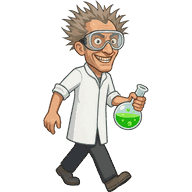
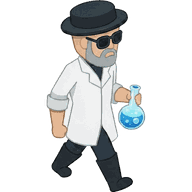
Monster größer, Trefferreaktion, Bilder vorladen, Betty-Zensur angepasst, Umbenennungen (21b)
Claude-Session: https://claude.ai/code/session_013oLTFfMg7wzJRzAbY7Svkz

Changed region(s): [[0.2188, 0.0, 0.7812, 1.0]]

diff --git a/index.html b/index.html
@@ -220,7 +220,7 @@ const FIREBASE_CONFIG = {
   appId: "1:45840879921:web:f4f4f8bb60e49a091ae010"
 };
 const GAME_ID = "spiel1";   // anderer Name = eigenes, getrenntes Spiel
-const VERSION = "2026-10-21a";  // bei JEDER Änderung hochzählen: alte Handys merken so, dass sie neu laden müssen
+const VERSION = "2026-10-21b";  // bei JEDER Änderung hochzählen: alte Handys merken so, dass sie neu laden müssen
 
 /* =====================================================================
    SPIELDATEN – Regeln und Zahlen. Alles hier darf geändert werden.
@@ -489,7 +489,7 @@ const MONSTERS = [
   /* Runde 21–40 (16.10., L): neue Mechaniken. „Immun“ (Faktor 0) = 50 % Schaden und kein Effekt des Elements. Werte sind Startwerte fürs Balancing-Skript.
      Block 5–8 wie bisher: erste Runde neutral, danach je Element einmal Bonus und Malus (Block 7: Lehrer gemischt, Block 8: Vorhaut nicht neutral). */
   ['Roboter',           {emo:'🤖', ar:[0.3, 0.5], speed:0.9, hpMul:1.1, weak:[1, 1, 1, 1]}],
-  ['Sommer-Schneebälle',{emo:'⛄', ar:[0.45, 0.7], speed:1.0, weak:[1.5, 0, 1, 1], info:'rollen mit dicker Schale – Eis kann ihnen kaum etwas anhaben'}],
+  ['Eiswürfel',         {emo:'⛄', ar:[0.45, 0.7], speed:1.0, weak:[1.5, 0, 1, 1], info:'rollen mit dicker Schale – Eis kann ihnen kaum etwas anhaben'}],
   ['Würfel',            {emo:'🎲', ar:[0.2, 0.3], speed:1.1, weak:[1, 1, 1.5, 0.75]}],
   ['Phönixe',           {emo:'🐦🔥', ar:[0.1, 0.2], fly:true, speed:1.4, weak:[0, 1.5, 1, 1], info:'aus Feuer geboren – Feuer wirkt kaum'}],
   ['Fairtrade-Bananen', {emo:'🍌', speed:1.2, hpMul:0.95, weak:[1, 1, 0.75, 1.5]}],
@@ -507,7 +507,7 @@ const MONSTERS = [
   ['Lehrer',            {emo:'🧑🏫', ar:[0.2, 0.3], speed:1.0, mixed:true, weak:[1, 1, 1, 1], info:'jeder Lehrer hat eigene Stärken und Schwächen: eine „Immunität“, ein Bonus, der Rest gemischt'}],
   ['Schulleiter',       {emo:'🎓', mini:true, ar:[0.2, 0.3], speed:1.0, hpMul:5, count:1, lives:2, weatherBoss:true, weak:[1, 1, 1, 1], info:'macht auf jeder Map das Wetter, das dem Element dort am meisten schadet (Stein ist wetterfest)'}],
   ['Streichquartett',   {emo:'🎻', ar:[0.15, 0.3], speed:1.0, hpMul:1.05, quartet:true, weak:[1, 1, 1, 1], info:'gemischte Welle (Farbe und Größe zeigen die Sorte): 7 Violinen (gelb, leicht), 6 Bratschen (orange, verwirrt, laufen immer wieder rückwärts), 4 Celli (braun, stärker), 3 Kontrabässe (dunkelrot, groß, etwas langsamer, geben Monstern in ihrer Nähe +20 Punkte Rüstung)'}],
-  ['Heisenbergs',       {emo:'🧪', ar:[0.3, 0.4], speed:1.15, night:true, weak:[0.75, 1, 1.5, 1]}],
+  ['The one who knocks', {emo:'🧪', ar:[0.3, 0.4], speed:1.15, night:true, weak:[0.75, 1, 1.5, 1]}],
   ['Mehlmottenraupen',  {emo:'🪱', ar:[0.9, 0.35], speed:1.0, cocoon:{ ground:3, fly:1.2, pct:0.9, speed:2.4 }, weak:[1.5, 0.75, 1, 1], info:'krabbeln erst kurz als Raupe, dann abwechselnd Kokon und Motte – als Kokon fast unverwundbar (90 % Rüstung, Stein zertrümmert sie), dann kurz als Motte fliegend und schnell'}],
   ['Nazgul',            {emo:'🐲', ar:[0.3, 0.4], fly:true, speed:1.5, hpMul:0.8, weak:[1, 1, 0.75, 1.5]}],
   ['GNTModels',         {emo:'💃', speed:1.3, heart:{ t:1, cd:1 }, weak:[1, 1.5, 1, 0.75], info:'nach jedem Treffer kurz ein Herz – dann zielt kein Turm auf sie'}],
@@ -786,6 +786,7 @@ function addFx(m, kind, val, t, w){        // stärkerer Wert gewinnt, längere 
 const on = (m, k) => m.fx[k] && m.fx[k].t > 0;
 function hit(s, m, def, dmg){
   if (m.dead) return;
+  m.hitT = s.t;   // nur Anzeige (Trefferreaktion), die Simulation liest das nicht
   const w = (m.weak || m.def.weak)[def.el], f = w || CONFIG.immune, imm = !w;   // „immun“ = weniger Schaden und (seit 16.10.) kein Effekt des Elements; Lehrer: Faktoren je Exemplar (m.weak)
   const vuln = 1 + (on(m, 'curse') ? m.fx.curse.v : 0) + (on(m, 'smolder') ? m.fx.smolder.v : 0);
   if (def.groundHalf && !flying(m)) dmg *= 0.5;               // Feuerregen: Bodenmonster halb
@@ -1795,20 +1796,29 @@ const MONSTER_IMG = { 'Silberfische':'silberfisch', 'Kellerasseln':'assel', 'Nac
   'Kleine Hunde':'hund', 'Ratten':'ratte', 'Katzen':'katze', 'Spatzen':'spatz', 'Füchse':'fuchs', 'Fuchs-Boss':'fuchs', 'Habichte':'habicht', 'Dachse':'dachs',
   'Oktopusse':'oktopus', 'Wildschweine':'wildschwein', 'Schäferhunde':'schaeferhund', 'Schäferhund-Boss':'schaeferhund', 'Besoffene Penner':'penner',
   'Wütende Partnerin':'partnerin', 'Wütende Nachbarn':'nachbar', 'Eifersüchtige Geliebte':'geliebte', 'Uffug-Vorhaut':'vorhaut', 'Uffug (Boss)':'uffug',
-  'Roboter':'roboter', 'Sommer-Schneebälle':'schneeball', 'Würfel':'wuerfel', 'Phönixe':'phoenix', 'Fairtrade-Bananen':'banane', 'El Schlucko':'schlucko',
+  'Roboter':'roboter', 'Eiswürfel':'schneeball', 'Würfel':'wuerfel', 'Phönixe':'phoenix', 'Fairtrade-Bananen':'banane', 'El Schlucko':'schlucko',
   'Krieger':'krieger', 'Golems':'golem', 'Albträume':'albtraum', 'Looping-Louie-Flugzeuge':'flugzeug', 'Magier-Novizen':'novize', 'Magiermeister':'magiermeister',
   'E-Scooter-Fahrer':'escooter', 'Wargreiter':'wargreiter', 'Warg':'warg', 'Ork':'ork', 'Fledermäuse':'fledermaus', 'Lehrer':'lehrer', 'Schulleiter':'schulleiter',
-  'Violine':'geige', 'Bratsche':'geige', 'Cello':'geige', 'Kontrabass':'geige', 'Streichquartett':'geige', 'Heisenbergs':'chemiker',
+  'Violine':'geige', 'Bratsche':'geige', 'Cello':'geige', 'Kontrabass':'geige', 'Streichquartett':'geige', 'The one who knocks':'chemiker',
   'Mehlmottenraupen':'raupe', 'Nazgul':'schattenreiter', 'GNTModels':'model', 'Betty (Boss)':'betty' };   // 21.10. (L): alle außer Lindner-Spezialisten
 const MONSTER_ANIM = { betty:[8, 8] };   // 21.10. (L): Laufbilder <name>-lauf-0..n-1.png für die Seitenansicht [Anzahl, Bilder je Sekunde]
 const MIMG = {};
-for (const k of ['assel-hinten', 'dachs-hinten', 'schneeball-vorne', 'schneeball-hinten', 'chemiker-vorne', 'chemiker-hinten', 'fuchs-hinten']) MIMG[k] = null;   // fehlen → Seitenansicht
+for (const k of ['assel-hinten', 'dachs-hinten', 'schneeball-vorne', 'fuchs-hinten']) MIMG[k] = null;   // fehlen → Seitenansicht
+// 21.10.: alle Bilder beim Start laden (sonst kurz Emoji, wenn eine Ansicht zum ersten Mal gebraucht wird, z. B. in Kurven)
+function preloadMonsterImgs(){ for (const k of new Set([...Object.values(MONSTER_IMG), 'motte', 'roboterrot'])) { for (const v of ['seite', 'vorne', 'hinten']) monsterImg(k, v);
+  if (MONSTER_ANIM[k]) for (let j = 0; j < MONSTER_ANIM[k][0]; j++) monsterImg(k, 'lauf-' + j); } }
+// Trefferreaktion: weiße Silhouette je Bild (einmal erzeugt)
+const WHITE = new Map();
+function whiteOf(im){ let w = WHITE.get(im); if (w) return w;
+  w = document.createElement('canvas'); w.width = im.naturalWidth; w.height = im.naturalHeight; const g = w.getContext('2d');
+  g.drawImage(im, 0, 0); g.globalCompositeOperation = 'source-in'; g.fillStyle = '#fff'; g.fillRect(0, 0, w.width, w.height); WHITE.set(im, w); return w; }
 function monsterImg(key, view){
   const k = key + '-' + view; if (k in MIMG) return MIMG[k] && MIMG[k].complete && MIMG[k].naturalWidth ? MIMG[k] : null;
   const im = new Image(); im.onerror = () => { MIMG[k] = null; }; im.src = 'assets/monster/' + k + '.png'; MIMG[k] = im; return null;
 }
 function loadSprites(){
   if (typeof Image === 'undefined') return;
+  preloadMonsterImgs();
   for (const [k,n] of Object.entries(SPRITES)) { const im = new Image();
     im.onload = () => { SPR[k] = im; if (G) { drawAll(); if (!replay) renderPalette(); } };
     im.src = `assets/kenney/towerDefense_tile${String(n).padStart(3,'0')}.png`; }
@@ -1990,26 +2000,33 @@ function draw(i, cv){
     m.lx = x; m.ly = y;
     let ikey = MONSTER_IMG[m.def.name] || MONSTER_IMG[MONSTERS[m.type] && MONSTERS[m.type].name];
     if (ikey === 'raupe' && m.coc && m.coc.fly) ikey = 'motte';
+    if (ikey === 'roboter' && m.ap <= 0) ikey = 'roboterrot';   // 21.10.: Rüstung weg → Auge leuchtet rot
     let view = Math.abs(m.vx || 1) >= Math.abs(m.vy || 0) ? 'seite' : (m.vy > 0 ? 'vorne' : 'hinten');
     if (ikey && view !== 'seite' && MIMG[ikey + '-' + view] === null) view = 'seite';   // fehlende Ansicht → Seite
+    if (m.strip > 0) view = 'vorne';   // Betty dreht sich zum Betrachter
     const lauf = ikey && view === 'seite' && MONSTER_ANIM[ikey] && !(m.strip > 0) ? Math.floor(time * MONSTER_ANIM[ikey][1] + m.id) % MONSTER_ANIM[ikey][0] : -1;
     const im = ikey && ((lauf >= 0 && monsterImg(ikey, 'lauf-' + lauf)) || monsterImg(ikey, view));
     c.textAlign = 'center'; c.textBaseline = 'middle';
     if (im) {
-      const S = r * 2.5 * (m.def.boss || m.def.mini ? 1.15 : 1), walk = lauf < 0 && !(m.coc && !m.coc.fly && !m.coc.walk) && !(m.strip > 0) && !flying(m);
+      const S = r * 3.2 * (m.def.boss || m.def.mini ? 1.15 : 1), walk = lauf < 0 && !(m.coc && !m.coc.fly && !m.coc.walk) && !(m.strip > 0) && !flying(m);
       const sq = walk ? 1 + .05 * Math.sin(time * 11 + m.id * 3) : 1;   // Wippen beim Gehen
-      c.save(); c.translate(X, Y + r * .75); if (view === 'seite' && (m.vx || 0) < 0) c.scale(-1, 1); c.scale(1 / sq, sq);
-      c.drawImage(im, -S / 2, -S, S, S); c.restore();
+      const ht = m.hitT !== undefined ? time - m.hitT : 9, hf = ht >= 0 && ht < .15 ? 1 - ht / .15 : 0;   // Treffer: kurz weiß und zurückgestoßen
+      const vl = Math.hypot(m.vx || 0, m.vy || 0) || 1, kb = hf * r * .25;
+      c.save(); c.translate(X - (m.vx || 0) / vl * kb, Y + r * .75 - (m.vy || 0) / vl * kb); if (view === 'seite' && (m.vx || 0) < 0) c.scale(-1, 1); c.scale(1 / sq, sq);
+      c.drawImage(im, -S / 2, -S, S, S);
+      if (hf > 0) { c.globalAlpha = ghost * .7 * hf; c.drawImage(whiteOf(im), -S / 2, -S, S, S); c.globalAlpha = ghost; }
+      c.restore(); m.top = Y + r * .75 - S;
       if (m.coc && !m.coc.fly && !m.coc.walk) {   // Kokon: weiße, halbdurchsichtige Hülle über der Raupe
         c.fillStyle = '#ffffffb8'; c.strokeStyle = '#ffffff'; c.lineWidth = 1; c.beginPath();
         c.ellipse(X, Y + r * .75 - S * .3, (view === 'seite' ? S * .5 : S * .28), (view === 'seite' ? S * .24 : S * .45), 0, 0, Math.PI * 2); c.fill(); c.stroke(); }
-    } else { c.font = `${r*1.9}px serif`; c.fillText(emo, X, Y + 1); }
+    } else { c.font = `${r*1.9}px serif`; c.fillText(emo, X, Y + 1); m.top = Y - r; }
     c.globalAlpha = 1;
-    if (m.strip > 0) {                         // Betty „zieht sich aus“: hautfarben verpixelt, schwarzer Balken
-      const n = 4, q = 2*r/n, skin = ['#f1c6a7', '#e8b494', '#d9a07f', '#f6d3b8'];
-      for (let a = 0; a < n; a++) for (let b = 0; b < n; b++) { c.fillStyle = skin[(a*3 + b + Math.floor(time*6)) % 4]; c.fillRect(X - r + a*q, Y - r + b*q, q + .5, q + .5); }
-      c.fillStyle = '#000'; c.fillRect(X - r*1.25, Y - r*.2, r*2.5, r*.5);
-      c.fillStyle = '#fff'; c.font = `700 ${Math.max(7, r*.36)}px ${v('--mono')}`; c.fillText('CENSORED', X, Y + r*.06); }
+    if (m.strip > 0) {                         // Betty „zieht sich aus“: hautfarben verpixelt ab dem Kinn, schwarzer Balken (21.10.: an das Bild angepasst)
+      const S = im ? r * 3.2 * 1.15 : 2*r, top = im ? m.top + S * .2 : Y - r, w = im ? S * .36 : 2*r, h = im ? S * .42 : 2*r;
+      const n = 4, qx = w/n, qy = h/n, skin = ['#f1c6a7', '#e8b494', '#d9a07f', '#f6d3b8'];
+      for (let a = 0; a < n; a++) for (let b = 0; b < n; b++) { c.fillStyle = skin[(a*3 + b + Math.floor(time*6)) % 4]; c.fillRect(X - w/2 + a*qx, top + b*qy, qx + .5, qy + .5); }
+      c.fillStyle = '#000'; c.fillRect(X - w*.7, top, w*1.4, h*.3);
+      c.fillStyle = '#fff'; c.font = `700 ${Math.max(7, w*.2)}px ${v('--mono')}`; c.fillText('CENSORED', X, top + h*.15); }
     if (m.heartT > 0) { c.font = `${r*1.1}px serif`; c.fillText('❤', X + r*.7, Y - r*.8); }
     if (m.def.bass) { c.strokeStyle = '#c8ccd055'; c.lineWidth = 1; c.setLineDash([3,3]); c.beginPath(); c.arc(X, Y, m.def.bass.r*cs, 0, Math.PI*2); c.stroke(); c.setLineDash([]); }
     if (m.def.confused) { c.fillStyle = '#ffe9a8'; c.font = `700 ${r*1.1}px ${v('--mono')}`; c.fillText('?', X - r, Y - r); }
@@ -2019,7 +2036,7 @@ function draw(i, cv){
     if (on('fear')) { c.fillStyle = '#e8dcff'; c.font = `700 ${r*1.1}px ${v('--mono')}`; c.fillText('!', X - r, Y - r); }
     if (m.hops) { c.fillStyle = v('--accent'); c.font = `700 ${cs*.22}px ${v('--mono')}`; c.fillText(m.hops, X + r, Y - r); }
     const f = Math.max(0, m.hp / m.def.hp);
-    const by = Y - r - 6 < 0 ? Y + r + 2 : Y - r - 6;   // 17.10.: am oberen Rand Balken unter das Monster
+    const bt = Math.min(Y - r, m.top || Y - r) - 6, by = bt < 0 ? Y + r + 2 : bt;   // 17.10.: am oberen Rand Balken unter das Monster; 21.10.: über dem Bild
     c.fillStyle = '#00000088'; c.fillRect(X-r, by, 2*r, 3);
     c.fillStyle = f > .5 ? v('--ok') : v('--danger'); c.fillRect(X-r, by, 2*r*f, 3);
     if (m.def.armorPts && m.ap > 0) { c.fillStyle = '#c8ccd0'; c.fillRect(X-r, by + 3, 2*r*Math.min(1, m.ap / m.def.armorPts), 2); }   // Rüstung: grauer Balken

diff --git a/team/UPDATES.md b/team/UPDATES.md
@@ -5,6 +5,11 @@
 Mehr als 15 Einträge → die ältesten oben in team/archiv/updates-archiv.md einfügen. -->
 <!-- NEUE EINTRÄGE HIER -->
 
+### 21.10. 10:00 · L · 2026-10-21b – Monster größer, Trefferreaktion
+- Monster-Bilder ca. 30 % größer, Lebensbalken über dem Bild. Alle Bilder werden beim Start geladen (vorher kurz Emojis, wenn eine Ansicht zum ersten Mal kam, z. B. in Kurven).
+- Treffer: Monster blitzt kurz weiß auf und wird leicht zurückgestoßen (nur Anzeige). Ein Monster ab Runde 21 hat eine kleine optische Überraschung.
+- Nur Anzeige, keine Regeländerung; neu laden reicht.
+
 ### 21.10. 06:30 · L · (keine Spieländerung) – Turm-Prüfstand, Kandidat A
 - `node tools/balance/turm.js` misst Kraft je Gold je Turm und Stufe (Ebene A). Kandidat `tools/balance/spiegel-A.json`: Turmwerte und Upgrade-Schwerpunkt je Stufe (Code-Patch nur im Spiegel, `basis/patch.js`), Abweichung 16 %. Spielbar: `spiegel-a.html` (eigenes Spiel `spiegel2`).
 - Befund: Upgrades waren vor allem über die Reichweite zu stark. Erster Bericht vom 20.10. hatte einen Messfehler (Referenzturm verfluchte), Zahlen dort überhöht.
@@ -61,8 +66,3 @@ Mehr als 15 Einträge → die ältesten oben in team/archiv/updates-archiv.md ei
 
 ### 18.10. 23:00 · F · 2026-10-18i – Tag 2 und 4 etwas leichter
 - Kellerasseln: Rüstung 20 % → 13 % (Schatten ignoriert Rüstung nicht, daher traf es ihn am meisten): Schatten Tag 2 Bedarf 1,75 → 1,4. Ohrenkneifer: Stein-Faktor 1,0 → 1,1 (Stein Tag 4 1,71 → 1,55). Bot-Tendenz. Neues Spiel + neu laden.
-
-### 18.10. 23:10 · F · 2026-10-18h – Tag 1–6: Malus/Bonus kräftiger, neue Stellschraube kraftBlock
-- Neu: `ELEMENTS[e].kraftBlock` (Schaden je Element und 5er-Block, neutral 1; Zwischenbosse neutral). Block 1: Feuer ×1,466, Eis ×1,12, Schatten ×1, Stein ×0,34 (Kiesel wird in Tag 1–5 damit noch schwächer, Stein-Fläche bleibt vorn).
-- Faktoren Tag 2–5 (Ringregel bleibt): Malus 0,75, Bonus 1,75 (T2 Feuer 0,75/Stein 1,75; T3 Stein 0,75/Eis 1,3; T4 Eis 0,8/Schatten 1,75; T5 Schatten 0,75/Feuer 1,75).
-- Gemessen (Bot, Bedarf ÷ verfügbares Gold): Ø Tag 1–5 etwa 1,5 je Element; Malus-Zellen 1,3–2,4. Grenzen: Eis T4 bleibt bei 2,4 (Stufenwerte des Bots), Stein T3 nur 1,5. Tendenz, kein Spielgefühl. Neues Spiel + neu laden.

diff --git a/team/GRAFIK.md b/team/GRAFIK.md
@@ -16,7 +16,8 @@
 
 ## Stand 21.10.: alle Monster eingebaut
 - Fast alle Monster haben jetzt Bilder (Krea 3 auf Civitai, 19.–20.10.); nur ein Schwarm-Monster bleibt Emoji. Zwischenbosse nutzen die Bilder ihres Monsters, Varianten (z. B. Reiter/Reittier) haben eigene. Auswahl und Dateinamen ab Runde 21 im Claude-Projekt (Überraschung für F).
-- Fehlt eine Ansicht (z. B. Asseln und Dachse von hinten, Füchse von hinten), nimmt das Spiel die Seitenansicht (`MIMG[...] = null` vorbelegt).
+- Fehlt eine Ansicht (z. B. Asseln und Dachse von hinten, Füchse von hinten), nimmt das Spiel die Seitenansicht (`MIMG[...] = null` vorbelegt). Alle Bilder werden beim Start geladen (`preloadMonsterImgs`).
+- 21.10. (21b): Zeichengröße `r * 3.2` (vorher 2,5), Trefferreaktion (weiße Silhouette `whiteOf` + kleiner Rückstoß, `m.hitT` aus `hit`, nur Anzeige).
 - Erstes **Laufbild**: Betty (Endboss) hat 8 Laufbilder für die Seitenansicht (`betty-lauf-0..7.png`, aus einem Krea-Video, `MONSTER_ANIM` = [Anzahl, Bilder/s]). Andere Monster wippen weiter.
 - Bilder auf 128 Farben verkleinert (alle zusammen ca. 0,9 MB).
 - Gewählt Runde 1–20 (Datei-Anfang Seite/Vorne/Hinten): siehe Claude-Projekt „Grafik-Prompts (alle Monster)“; Auswahl nach Perspektive (Blick rechts, Kamera leicht von oben) und gleicher Figur über alle Ansichten.

diff --git a/team/archiv/updates-archiv.md b/team/archiv/updates-archiv.md
@@ -1,5 +1,10 @@
 # Archiv: ältere Updates (neueste oben)
 
+### 18.10. 23:10 · F · 2026-10-18h – Tag 1–6: Malus/Bonus kräftiger, neue Stellschraube kraftBlock
+- Neu: `ELEMENTS[e].kraftBlock` (Schaden je Element und 5er-Block, neutral 1; Zwischenbosse neutral). Block 1: Feuer ×1,466, Eis ×1,12, Schatten ×1, Stein ×0,34 (Kiesel wird in Tag 1–5 damit noch schwächer, Stein-Fläche bleibt vorn).
+- Faktoren Tag 2–5 (Ringregel bleibt): Malus 0,75, Bonus 1,75 (T2 Feuer 0,75/Stein 1,75; T3 Stein 0,75/Eis 1,3; T4 Eis 0,8/Schatten 1,75; T5 Schatten 0,75/Feuer 1,75).
+- Gemessen (Bot, Bedarf ÷ verfügbares Gold): Ø Tag 1–5 etwa 1,5 je Element; Malus-Zellen 1,3–2,4. Grenzen: Eis T4 bleibt bei 2,4 (Stufenwerte des Bots), Stein T3 nur 1,5. Tendenz, kein Spielgefühl. Neues Spiel + neu laden.
+
 ### 18.10. 21:50 · F · 2026-10-18g – Archiv: Türme zu jedem Tagesende statt nur am letzten
 - Fehler im Archiv: `days` (Türme am Tagesende) enthielt meist nur den letzten Tag. Ursache (wahrscheinlich): Jede Welle schrieb `days: {}` mit `merge:true`, und Firestore ersetzt eine leere Map als Ganzes, löschte also die früheren Tage. `archDoc` lässt leere `days`/`slots` jetzt weg. Gilt ab neuem Spiel; alte Archive bleiben lückenhaft.
 - Keine Spielregel geändert.
